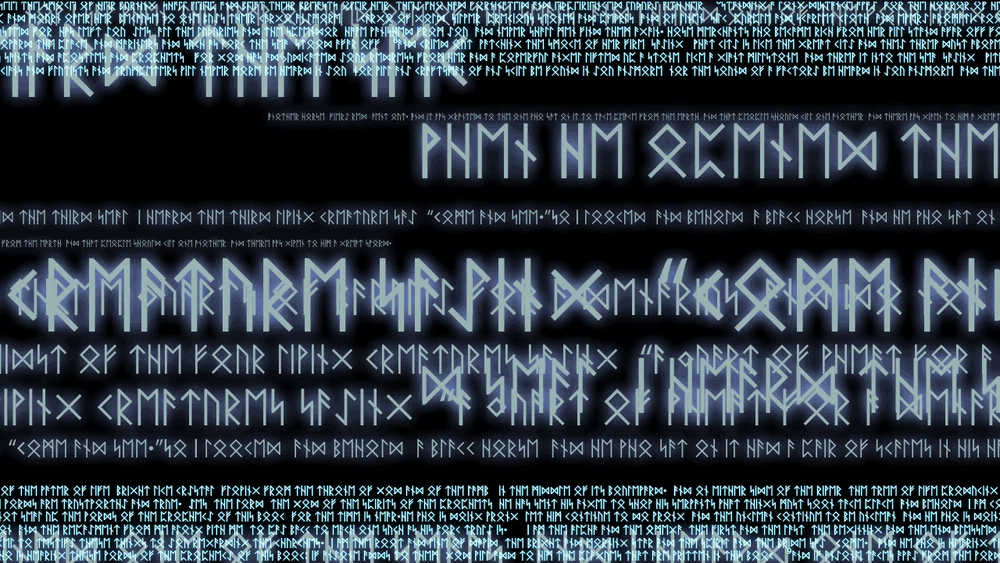
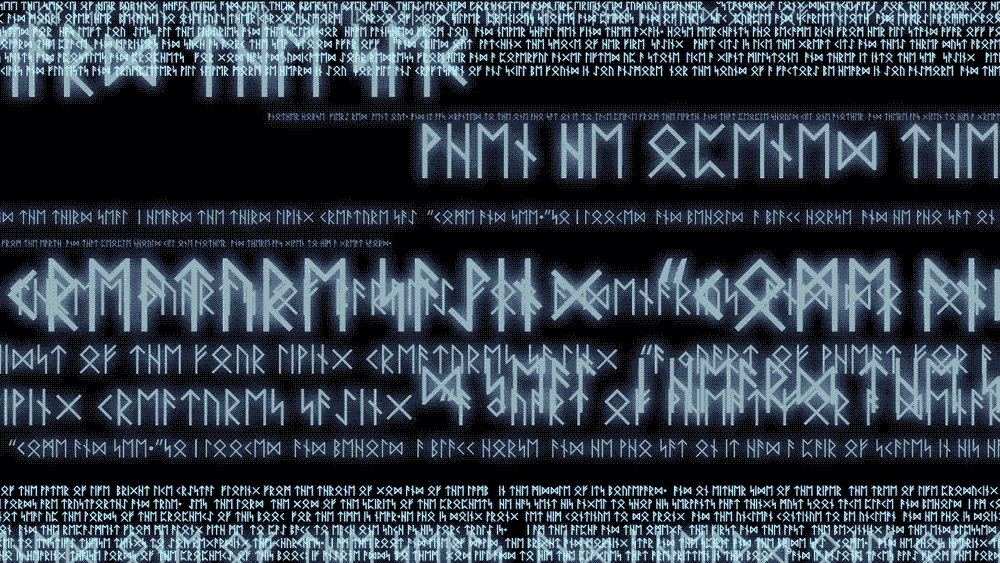
background 2

Changed region(s): [[0.0, 0.3623, 1.0, 1.0], [0.0, 0.0, 1.0, 0.3321]]

diff --git a/facts/style.css b/facts/style.css
@@ -28,4 +28,6 @@
 
 body {
 	background-image: url('selcom.png');
+	background-size: cover;
+	background-attachment: fixed
 }
